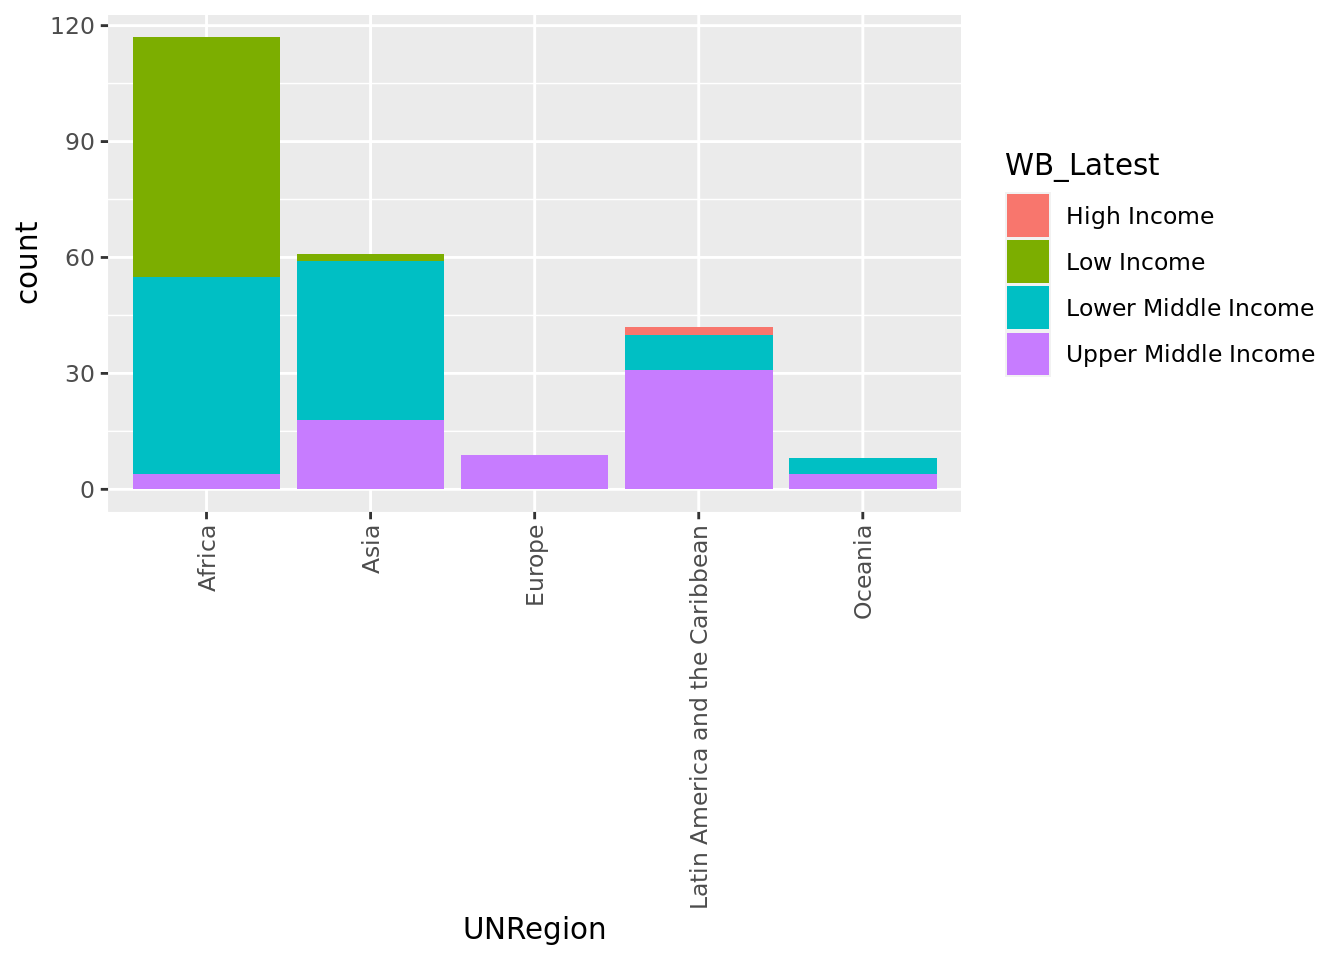
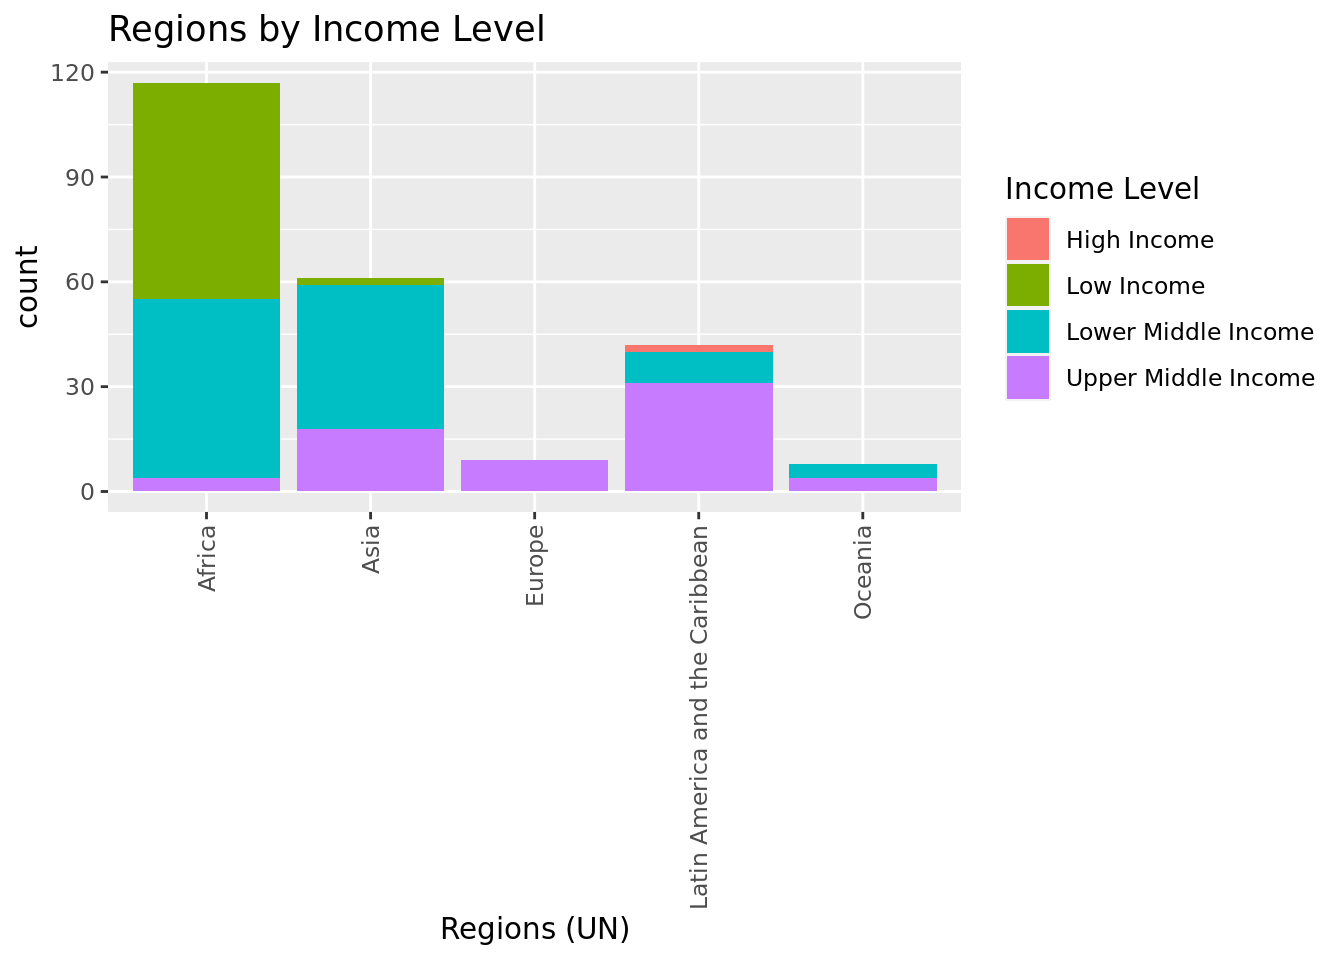
final edit

diff --git a/docs/report.html b/docs/report.html
@@ -7,7 +7,7 @@
 <meta name="viewport" content="width=device-width, initial-scale=1.0, user-scalable=yes">
 
 
-<title>Project title</title>
+<title>Food Access in different Regions</title>
 <style>
 code{white-space: pre-wrap;}
 span.smallcaps{font-variant: small-caps;}
@@ -169,7 +169,7 @@ code span.wa { color: #60a0b0; font-weight: bold; font-style: italic; } /* Warni
 
 <header id="title-block-header" class="quarto-title-block default">
 <div class="quarto-title">
-<h1 class="title">Project title</h1>
+<h1 class="title">Food Access in different Regions</h1>
 <p class="subtitle lead">Report</p>
 </div>
 
@@ -508,7 +508,12 @@ code span.wa { color: #60a0b0; font-weight: bold; font-style: italic; } /* Warni
 <div class="sourceCode cell-code" id="cb13"><pre class="sourceCode r code-with-copy"><code class="sourceCode r"><span id="cb13-1"><a href="#cb13-1" aria-hidden="true" tabindex="-1"></a>UNICEF_Food <span class="sc">|&gt;</span></span>
 <span id="cb13-2"><a href="#cb13-2" aria-hidden="true" tabindex="-1"></a>  <span class="fu">filter</span> (WB_Latest <span class="sc">!=</span><span class="st">""</span>) <span class="sc">|&gt;</span></span>
 <span id="cb13-3"><a href="#cb13-3" aria-hidden="true" tabindex="-1"></a>  <span class="fu">ggplot</span>(<span class="fu">aes</span>(<span class="at">x =</span> UNRegion, <span class="at">fill =</span> WB_Latest, <span class="at">na.rm =</span> T)) <span class="sc">+</span> </span>
-<span id="cb13-4"><a href="#cb13-4" aria-hidden="true" tabindex="-1"></a>  <span class="fu">geom_bar</span>() <span class="sc">+</span> <span class="fu">theme</span>(<span class="at">axis.text.x =</span> <span class="fu">element_text</span>(<span class="at">angle =</span> <span class="dv">90</span>, <span class="at">vjust =</span> <span class="fl">0.5</span>, <span class="at">hjust=</span><span class="dv">1</span>))</span></code><button title="Copy to Clipboard" class="code-copy-button"><i class="bi"></i></button></pre></div>
+<span id="cb13-4"><a href="#cb13-4" aria-hidden="true" tabindex="-1"></a>  <span class="fu">geom_bar</span>() <span class="sc">+</span> </span>
+<span id="cb13-5"><a href="#cb13-5" aria-hidden="true" tabindex="-1"></a>  <span class="fu">theme</span>(<span class="at">axis.text.x =</span> <span class="fu">element_text</span>(<span class="at">angle =</span> <span class="dv">90</span>, <span class="at">vjust =</span> <span class="fl">0.5</span>, <span class="at">hjust =</span> <span class="dv">1</span>)) <span class="sc">+</span></span>
+<span id="cb13-6"><a href="#cb13-6" aria-hidden="true" tabindex="-1"></a>  <span class="fu">labs</span>(<span class="at">x =</span> <span class="st">"Regions (UN)"</span>,</span>
+<span id="cb13-7"><a href="#cb13-7" aria-hidden="true" tabindex="-1"></a>       <span class="at">Y =</span> <span class="st">"People Surveyed"</span>,</span>
+<span id="cb13-8"><a href="#cb13-8" aria-hidden="true" tabindex="-1"></a>       <span class="at">fill =</span> <span class="st">"Income Level"</span>,</span>
+<span id="cb13-9"><a href="#cb13-9" aria-hidden="true" tabindex="-1"></a>       <span class="at">title =</span> <span class="st">"Regions by Income Level"</span>)</span></code><button title="Copy to Clipboard" class="code-copy-button"><i class="bi"></i></button></pre></div>
 <div class="cell-output-display">
 <p><img src="report_files/figure-html/unnamed-chunk-6-1.png" class="img-fluid" width="672"></p>
 </div>
